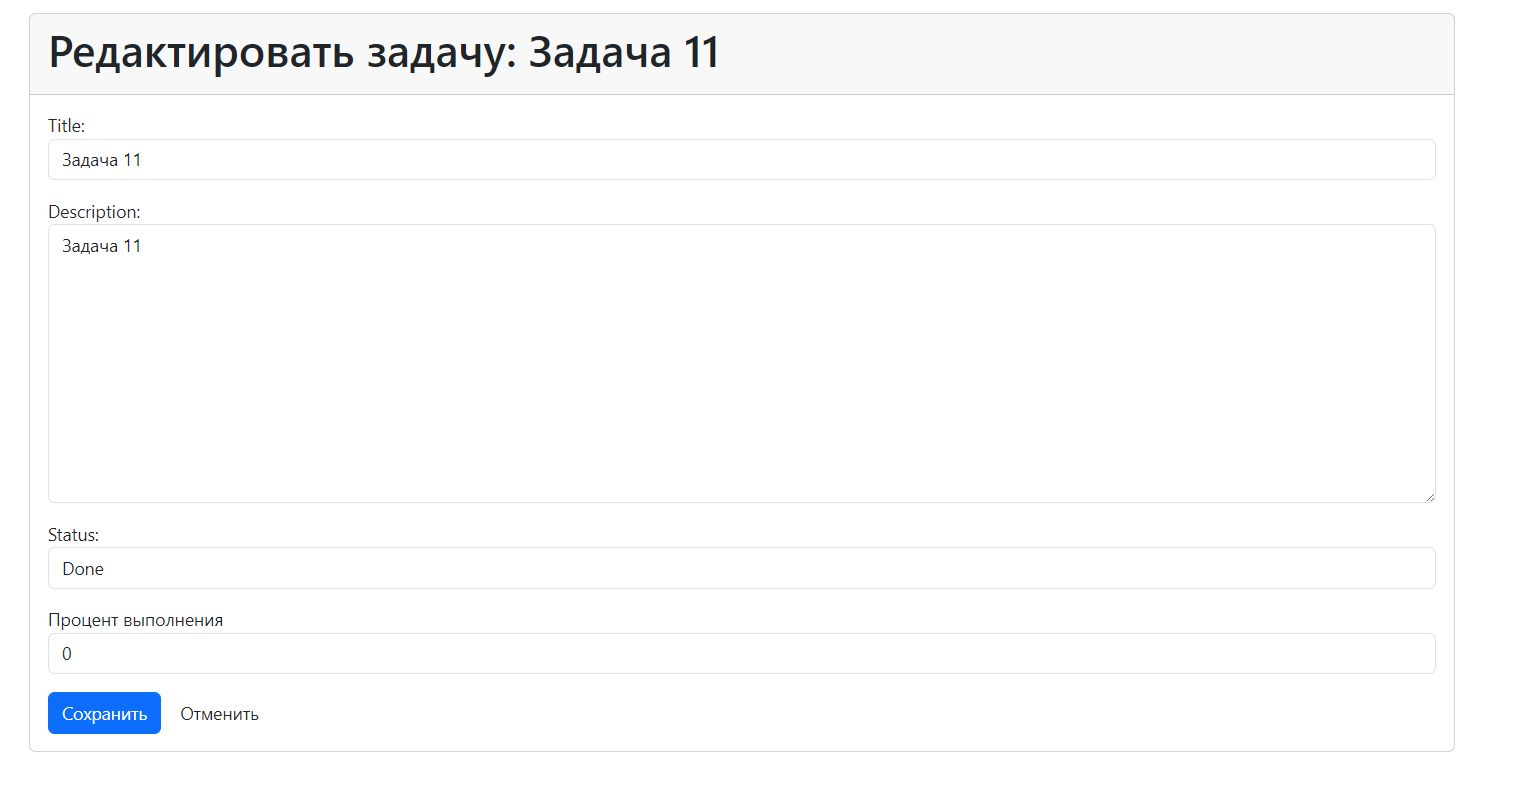
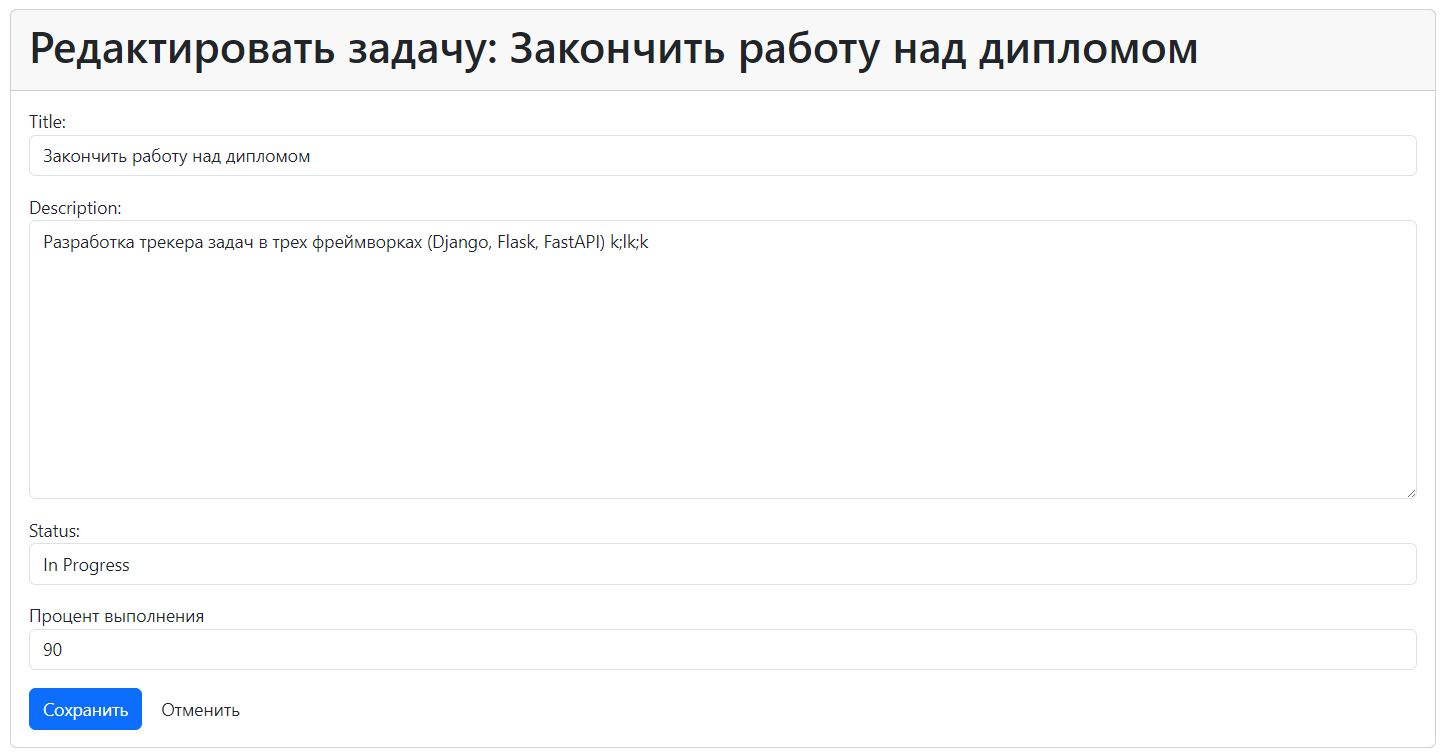
1/23/2025 Поправлен readme + добавлены docstrings; подправлено ошибочное наименование статуса в модели save; Исправлены автостатусы при редактировании Доработаны переходы из редактирования в список (сохраняется та же страница)+авто статус In progress, если он больше нуля; В пагинации сделаны кнопки;

diff --git a/tasks/views.py b/tasks/views.py
@@ -6,6 +6,20 @@ from django.http import HttpResponseRedirect
 from django.urls import reverse
 
 def complete_task(request, task_id):
+    """
+    Помечает задачу как выполненную.
+
+    Аргументы:
+        request (HttpRequest): Объект HTTP-запроса.
+        task_id (int): Идентификатор задачи.
+
+    Описание:
+        - Если задача еще не выполнена (статус не "done"), статус обновляется на "done", а прогресс устанавливается на 100%.
+        - Сохраняет изменения и перенаправляет пользователя на список задач с сохранением текущей страницы.
+
+    Возвращает:
+        HttpResponseRedirect: Перенаправление на список задач.
+    """
     task = get_object_or_404(Task, id=task_id)
     if task.status != 'done':  # Проверяем, что статус еще не "Done"
         task.status = 'done'
@@ -19,6 +33,21 @@ def complete_task(request, task_id):
 
 
 def edit_task(request, task_id):
+    """
+       Редактирует существующую задачу.
+
+       Аргументы:
+           request (HttpRequest): Объект HTTP-запроса.
+           task_id (int): Идентификатор задачи.
+
+       Описание:
+           - Если метод запроса POST, данные формы валидируются и сохраняются.
+           - Если метод запроса GET, пользователь видит форму редактирования задачи.
+           - После успешного сохранения пользователь перенаправляется на ту же страницу.
+
+       Возвращает:
+           HttpResponse или HttpResponseRedirect: Рендерит шаблон формы или перенаправляет обратно на список задач.
+       """
     task = get_object_or_404(Task, id=task_id)
     current_page = request.GET.get('page', 1)  # Получаем номер текущей страницы (по умолчанию 1)
 
@@ -35,6 +64,20 @@ def edit_task(request, task_id):
 
 
 def task_list(request):
+    """
+        Отображает список задач с пагинацией.
+
+        Аргументы:
+            request (HttpRequest): Объект HTTP-запроса.
+
+        Описание:
+            - Получает все задачи из базы данных.
+            - Настраивает пагинацию, показывая фиксированное количество задач на странице (по умолчанию 5).
+            - Рендерит страницу с задачами.
+
+        Возвращает:
+            HttpResponse: Рендерит шаблон со списком задач и объектом текущей страницы.
+        """
     tasks = Task.objects.all()
 
     # Настраиваем пагинатор (например, 5 задач на странице)
@@ -46,6 +89,20 @@ def task_list(request):
     return render(request, 'tasks/task_list.html', {'page_obj': page_obj})
 
 def add_task(request):
+    """
+        Добавляет новую задачу.
+
+        Аргументы:
+            request (HttpRequest): Объект HTTP-запроса.
+
+        Описание:
+            - Если метод запроса POST, данные из формы валидируются и новая задача сохраняется в базу данных.
+            - Если метод запроса GET, отображается пустая форма для заполнения.
+            - После успешного сохранения пользователь перенаправляется на список задач.
+
+        Возвращает:
+            HttpResponse или HttpResponseRedirect: Рендерит шаблон с формой добавления или перенаправляет на список задач.
+        """
     if request.method == 'POST':
         form = TaskForm(request.POST)
         if form.is_valid():

diff --git a/tasks/models.py b/tasks/models.py
@@ -16,6 +16,21 @@ class Task(models.Model):
     progress = models.IntegerField(default=0)  # Новое поле
 
     def save(self, *args, **kwargs):
+        """
+               Переопределяет метод сохранения модели.
+
+               Описание:
+                   - Если значение прогресса больше 0 и статус не равен "done", устанавливается статус "in_progress".
+                   - Если прогресс равен 0, статус обновляется на "todo".
+                   - После проверки вызывает метод `save` родительского класса для сохранения изменений в базе данных.
+
+               Аргументы:
+                   *args: Позиционные аргументы, переданные в метод `save`.
+                   **kwargs: Именованные аргументы, переданные в метод `save`.
+
+               Возвращает:
+                   None
+               """
         # Если прогресс больше 0, устанавливаем статус "In Progress"
         if self.progress > 0 and self.status != 'done':
             self.status = 'in_progress'
@@ -28,6 +43,15 @@ class Task(models.Model):
         return self.title
 
     def is_completed(self):
+        """
+               Проверяет, завершена ли задача.
+
+               Описание:
+                   - Метод возвращает True, если статус задачи равен "Done".
+
+               Возвращает:
+                   bool: True, если задача завершена, иначе False.
+               """
         return self.status == 'Done'
 
 # Create your models here.

diff --git a/README.md b/README.md
@@ -3,6 +3,32 @@
 Проект *TaskTracker* представляет собой приложение для управления задачами, реализованное с использованием трех популярных фреймворков Python: Django, FastAPI и Flask. Основная цель проекта — сравнение производительности, удобства использования и возможности каждого из этих фреймворков для разработки веб-приложений.
 В проекте реализована базовая функциональность для отображения, создания, редактирования и удаления задач. Он демонстрирует особенности каждого фреймворка, включая работу с базой данных, аутентификацию пользователей и обработку запросов.
 
+Приложение _**TaskTracker**_, реализованное с использованием фреймворка **_Django_**, предоставляет следующие функции:
+-	**Просмотр списка задач**: главная страница отображает таблицу с задачами, включая их название, статус, дату создания и обновления.
+
+функция `def task_list(request):` отоображает основное окно программы:
+![Главное окно программы](TaskList_Django.jpg)
+
+-	**Добавление новой задачи**: доступна форма для ввода информации о новой задаче.
+
+функция `def add_task(request):` выводит следующее окно:
+![Экран добавления задачи](AddTask.jpg)
+
+- **Редактирование задачи**: можно изменить детали уже существующей задачи.
+
+функция `def edit_task(request, task_id):` выводит следующее окно:
+![Экран редактирования задачи](EditTask_Django.jpg)
+
+- **Завершение задачи**: интерфейс предоставляет возможность пометить задачу как завершённую.
+
+функция `def complete_task(request, task_id):` выводит следующее окно:
+![Кнопка завершения задачи](EndTask.jpg)
+
+- **Управление статусом задачи**: задачи могут иметь статусы, такие как "в процессе" или "завершено", с визуальной индикацией прогресса.
+
+- ![Кнопка редактирования статуса задачи](EditStatus.jpg)
+
+=========================================================
 ## Установка проекта
 1.	Клонируйте репозиторий:
 
